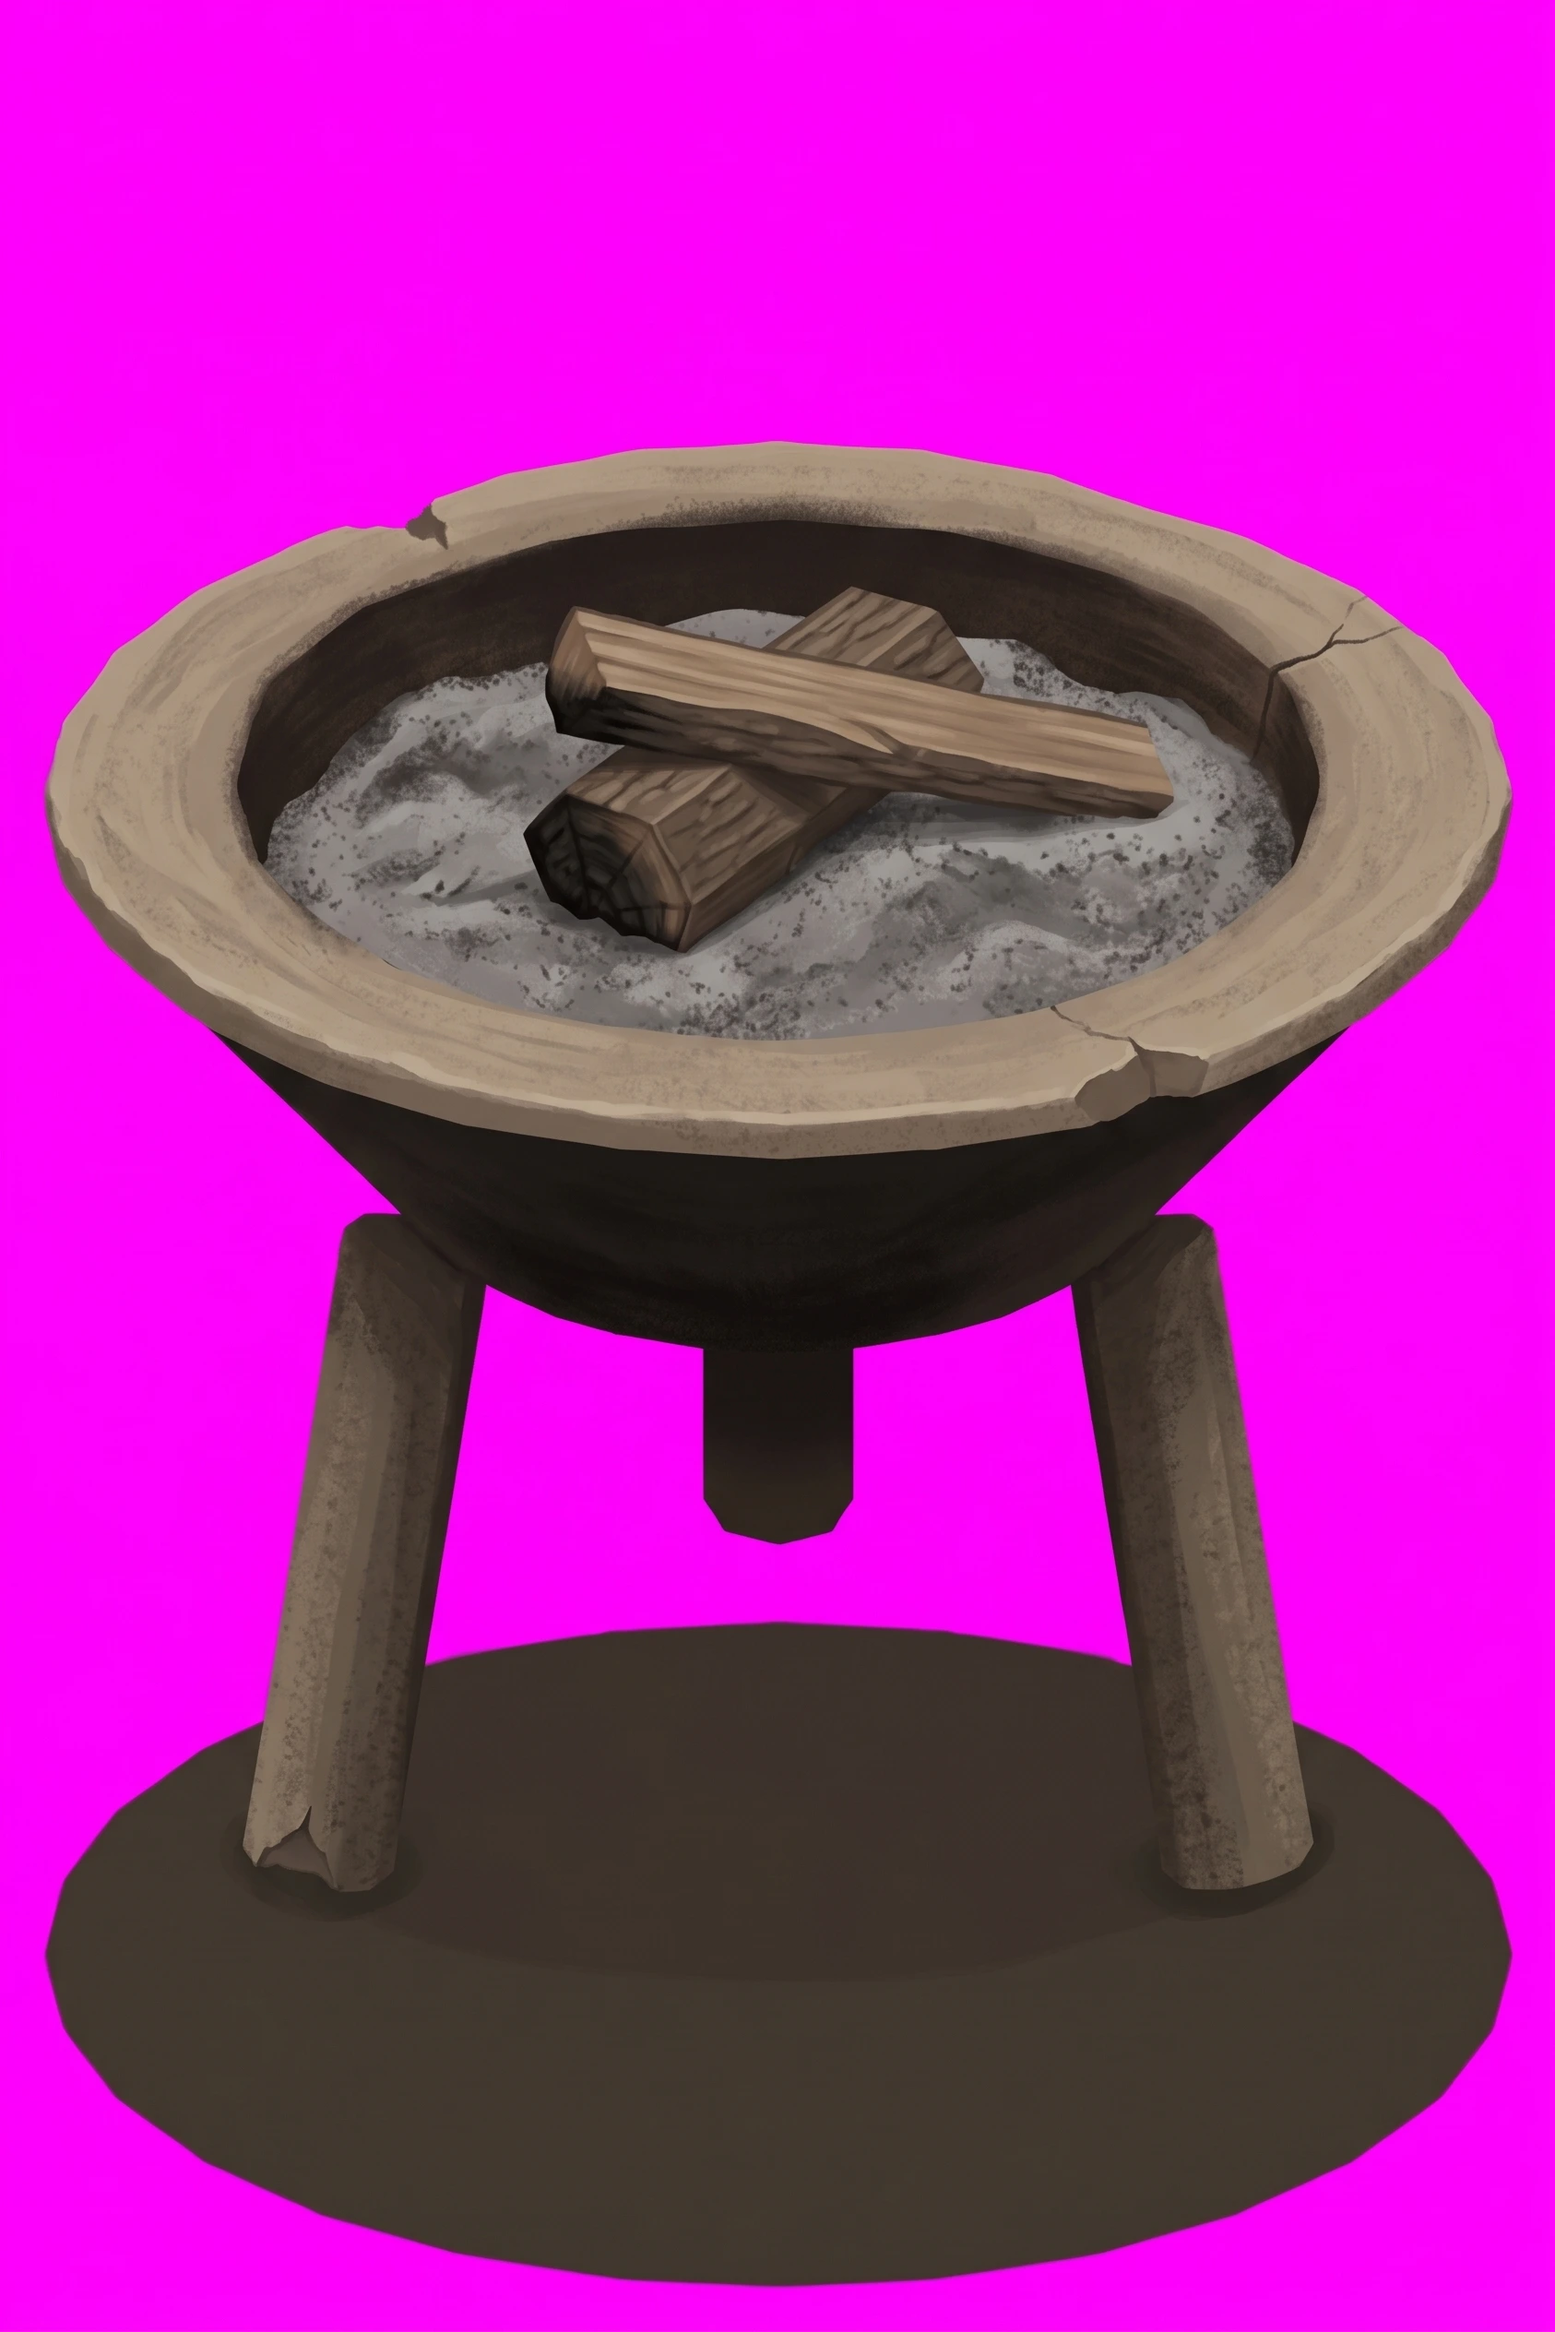
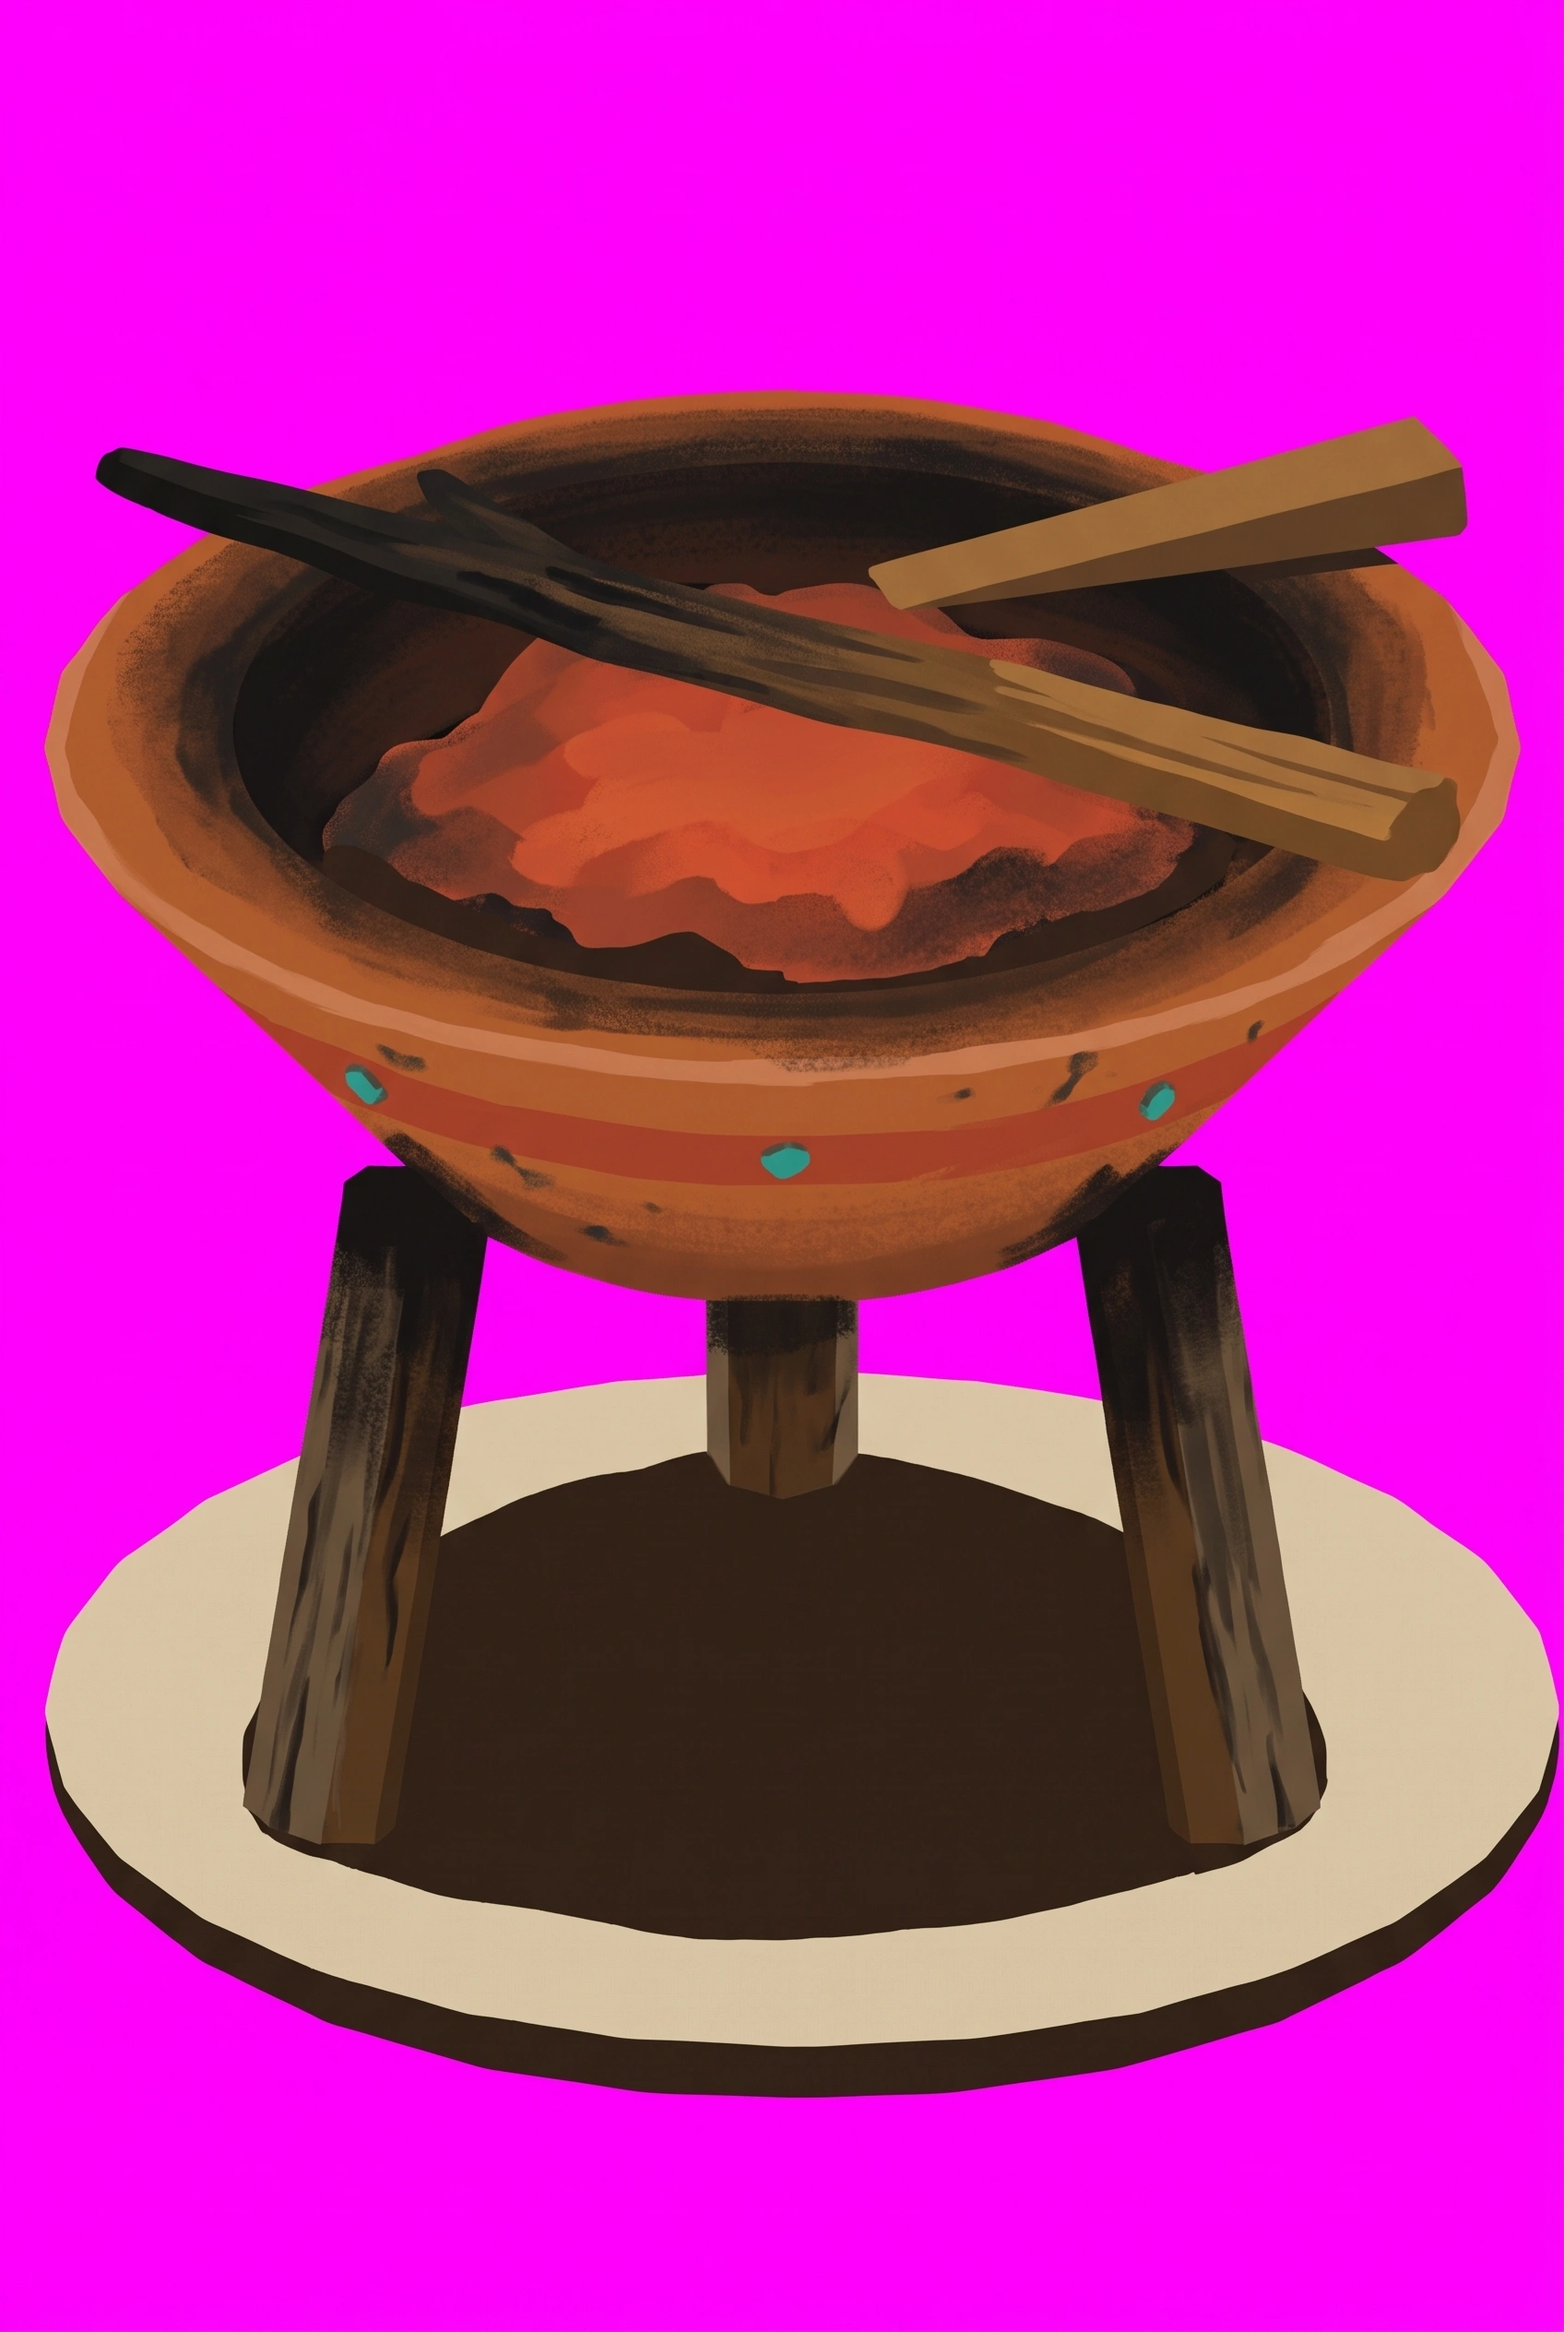
feat: starter's brazier repainted, terracotta bowl on a dark tripod
Claude-Session: https://claude.ai/code/session_01NQk9Q1WZoZfDzoRioyXby1

diff --git a/docs/instructions/repaint-queue.md b/docs/instructions/repaint-queue.md
@@ -193,47 +193,6 @@ the shabti is `--mesh=art/masters/meshes/shabti.glb`. `starter-plain.png` is the
 `art/masters/surfaces/starter-floor.webp` scaled to 1024, the crop every `<tier>-plain.png` is. The
 tally board has no scaffold: it attaches its own master.
 
-### `starter/brazier` — a terracotta brazier on a dark tripod
-
-**Attach:**
-
-1. `~/tile-previews/brazier-starter.png` — the scaffold
-2. `~/tile-previews/starter-plain.png` — the material reference
-
-```
-A wall-less product shot of a single object, painted in flat matte gouache, no background, on pure magenta #FF00FF. Portrait, two units wide by three tall, exactly as the reference. Do not re-compose it into a square. Paint over the reference image itself.
-
-The object: a shallow DISH on three splayed legs, burning low. The three legs are a TRIPOD; the wide
-shallow vessel is the dish; the low mass inside it is EMBERS; the bar laid across the rim is an unburnt
-STICK.
-
-The dish is fired terracotta #c0612f, blackened #3a2a1c round its rim and all down its inside where the
-fire has taken it, with a red ochre #b8452c band round its outside. The tripod is dark timber #5e3a1e,
-charred at the top where it meets the dish. The embers are a dull ember red-orange, matte, brightest at
-the centre and dark at the edges, with no glow round them. The stick is charred black at one end and
-honey timber #9a6a3c at the other.
-
-IT STANDS ON A PALE FLOOR AND MUST READ DARK ON IT. The floor is pale limestone, #d8c8a8. The object as a
-whole is clearly DARKER and more colourful than that: nothing on it larger than a fingertip is lighter
-than terracotta #c0612f, and only the turquoise #2a9d8f may be, in small touches. Its base, its underside
-and every part nearest the floor are its darkest, deep umber #3a2a1c. Nothing on it is white, cream,
-bleached, pale straw or whitewash — a pale part vanishes into the floor.
-
-Keep every edge, every proportion and every silhouette exactly as in the reference image — do not move, resize, straighten, add, remove or restyle any part of it, and do not change the angle it stands at. Paint only material and wear.
-
-The shadow at its foot is part of the picture: paint it #3A2A1C, with no pink and no purple in it at all.
-
-No highlights, no gloss, no rim light, no ground plane, no reflections. Matte throughout, as if lit by one dull lamp. Merchant's storehouse: fired terracotta #c0612f and #7e3a1a, honey-brown timber #9a6a3c and #5e3a1e, red ochre paint #b8452c, turquoise faience #2a9d8f. Saturated and warm — colour that reads from across the room — and never as pale as the floor it stands on.
-```
-
-Then, once the return is in `~/Downloads`:
-
-```sh
-scaffold brazier --depth=0.65
-yarn import-tile art/masters/props/starter/brazier.webp --tier=starter --name=brazier --slot=prop \
-  --filter=smooth --mask="$OBJ" --seat="$SHADOW" --scale=0.7
-```
-
 ### `starter/shrine` — a red-ochre household shrine, Bes and a lamp inside
 
 **Attach:**
